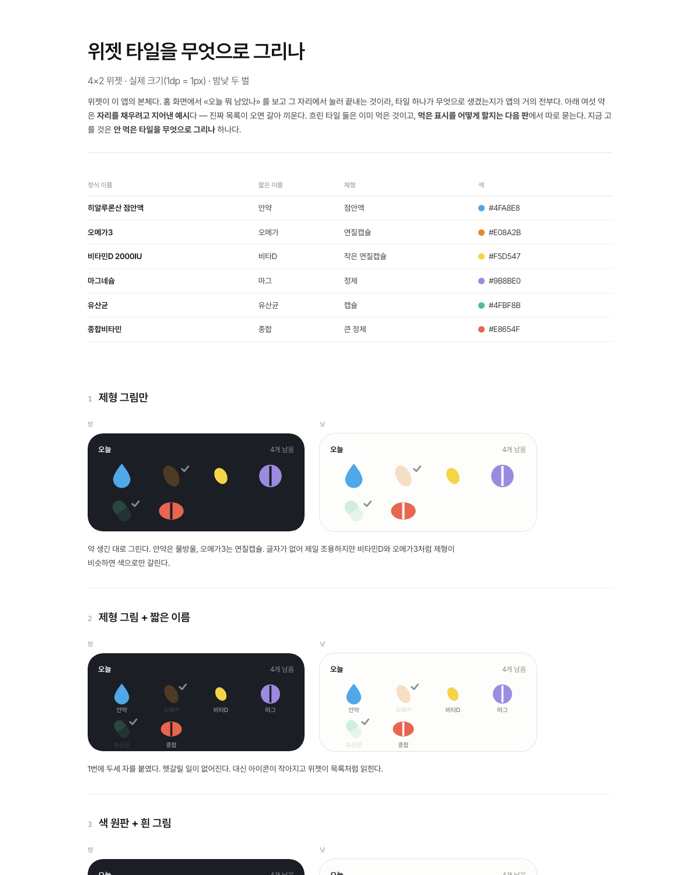
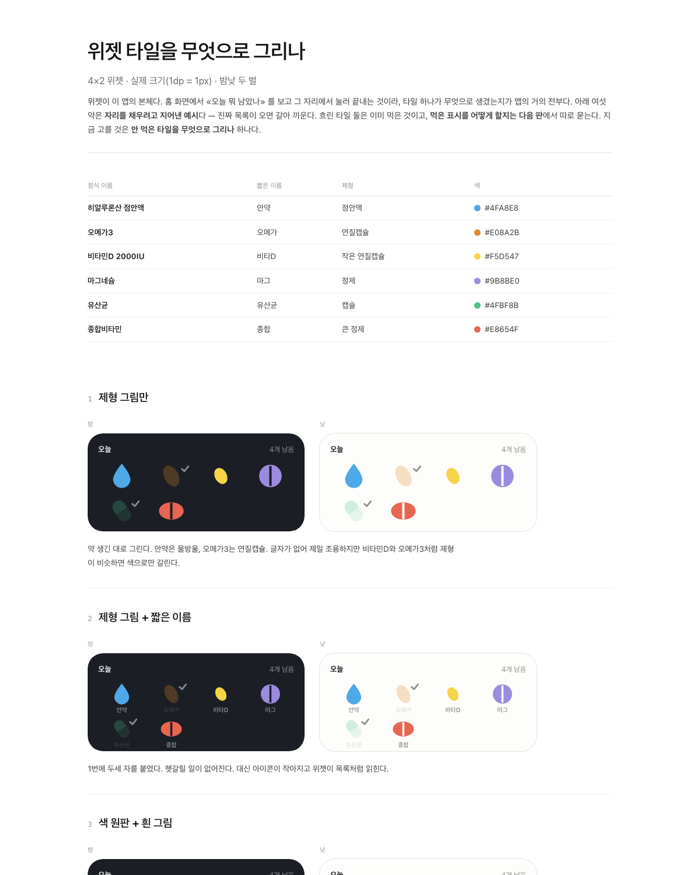
약수첩 설명서 갱신 — 상단바 없이, 꺾쇠 표시 (#5)

diff --git a/public/p/pillbox/manual.html b/public/p/pillbox/manual.html
@@ -23,178 +23,185 @@ svg.fig{display:block;width:100%;height:auto;margin:6px 0 0} svg.fig text{font-f
 .foot{color:var(--mut);font-size:13.5px;margin-top:48px}
 @media (max-width:760px){.wrap{padding:32px 16px 80px} .hero,.steps,.cap{width:100%} .cases,.steps{grid-template-columns:1fr}}
 </style></head><body><div class="wrap">
-<h1>약수첩</h1><p class="tag">먹고 바르고 넣는 약을 홈 화면에서 챙긴다</p><img class="hero" src="img/widget.png" alt=""><p class="cap">홈 화면 위젯. 윗줄이 지금 구간의 약, 아랫줄이 나머지 셋 — 다 챙겼으면 체크, 남았으면 개수. 맨 아래 인공눈물 띠는 두 번 누른다. 여기서 보고, 앱에서 누른다.</p><h2>처음 세 걸음</h2><div class="steps"><div class="step"><b>1</b><span>약을 넣는다</span><i>약 목록에서 이름 · 모양 · 색 · 언제</i></div><div class="step"><b>2</b><span>위젯을 올린다</span><i>홈 화면에 2칸짜리</i></div><div class="step"><b>3</b><span>먹고 누른다</span><i>앱에서 체크, 인공눈물은 띠에서</i></div></div><h2>이럴 때 이렇게</h2><div class="cases"><div class="case"><b>아침에 먹고</b><p>앱을 열어 아침 카드의 줄을 눌러요. 영양제 넷은 한 번에. 5시 20분이 돼도 알림은 안 와요 — 이미 했으니까.</p></div><div class="case"><b>깜빡했을 때</b><p>구간 시각에 알림이 하나. 남은 것 이름만 적혀 있고, <b>먹었어요</b> 를 누르면 그 구간이 통째로 체크돼요. 정해 둔 시간이 지나면 알림은 스스로 사라져요.</p></div><div class="case"><b>인공눈물을 넣고</b><p>위젯 띠를 두 번. 한 번은 «한 번 더 눌러서 확정», 4초 안에 한 번 더. 간격(기본 60분)이 지나면 물방울이 빨개져요.</p></div><div class="case"><b>잘못 눌렀을 때</b><p>몇 분 안엔 같은 줄을 다시 눌러요(기본 5분). 지나면 그대로 굳어요 — 잘못 눌렀을 때만 고치라고 두는 시간이에요.</p></div><div class="case"><b>늦게라도</b><p>타일은 자정까지 눌러 채울 수 있어요. 알림이 사라진 뒤에도요.</p></div><div class="case"><b>토요일 아침</b><p>일주일치 약통을 채우라는 알림. 매일 챙기는 일이 아니라 위젯엔 안 서요. <b>채웠어요</b> 를 누르면 기록에 남아요.</p></div></div><section class="moment"><h2>아침에 먹고 나서</h2><svg class="fig" viewBox="0 0 1960 1842" xmlns="http://www.w3.org/2000/svg" xmlns:xlink="http://www.w3.org/1999/xlink" role="img">
-<clipPath id="cp_main_top"><rect x="0" y="0" width="1080" height="1842" rx="36"/></clipPath>
-<image href="img/main_top.png" xlink:href="img/main_top.png" x="0" y="0" width="1080" height="1920" clip-path="url(#cp_main_top)"/>
-<rect x="2" y="2" width="1076" height="1838" rx="34" fill="none" stroke="#E4DFD5" stroke-width="4"/>
-<rect x="834" y="427" width="152" height="66" rx="14" fill="#A8834F" opacity=".16"/>
-<path d="M 988 460.0 H 1080" stroke="#A8834F" stroke-width="2" stroke-dasharray="5 7" opacity=".55"/>
-<path d="M 1080 460.0 H 1110.0 V 441.0 H 1126" fill="none" stroke="#A8834F" stroke-width="3"/>
-<circle cx="1080" cy="460.0" r="7" fill="#A8834F"/>
-<text x="1140" y="453.0" font-size="34" font-weight="700" fill="#2B2926">구간이 끝나면 «다 했어요»</text>
-<text x="1140" y="501.0" font-size="28" fill="#5A554F">구간마다 카드 하나. 이름 옆이 알림 시각이에요.</text>
-<rect x="785" y="580" width="201" height="68" rx="14" fill="#A8834F" opacity=".16"/>
-<path d="M 988 614.0 H 1080" stroke="#A8834F" stroke-width="2" stroke-dasharray="5 7" opacity=".55"/>
-<path d="M 1080 614.0 H 1110.0 V 595.0 H 1126" fill="none" stroke="#A8834F" stroke-width="3"/>
-<circle cx="1080" cy="614.0" r="7" fill="#A8834F"/>
-<text x="1140" y="607.0" font-size="34" font-weight="700" fill="#2B2926">줄을 누르면 체크</text>
-<text x="1140" y="655.0" font-size="28" fill="#5A554F">시각이 남고, 몇 분 안엔 다시 눌러 되돌려요.</text>
-<rect x="220" y="995" width="585" height="76" rx="14" fill="#A8834F" opacity=".16"/>
-<path d="M 807 1033.0 H 1080" stroke="#A8834F" stroke-width="2" stroke-dasharray="5 7" opacity=".55"/>
-<path d="M 1080 1033.0 H 1110.0 V 1014.0 H 1126" fill="none" stroke="#A8834F" stroke-width="3"/>
-<circle cx="1080" cy="1033.0" r="7" fill="#A8834F"/>
-<text x="1140" y="1026.0" font-size="34" font-weight="700" fill="#2B2926">영양제는 한 줄</text>
-<text x="1140" y="1074.0" font-size="28" fill="#5A554F">한 번에 먹으니 한 번에 체크돼요.</text>
-<rect x="846" y="1644" width="140" height="66" rx="14" fill="#A8834F" opacity=".16"/>
-<path d="M 988 1677.0 H 1080" stroke="#A8834F" stroke-width="2" stroke-dasharray="5 7" opacity=".55"/>
-<path d="M 1080 1677.0 H 1110.0 V 1658.0 H 1126" fill="none" stroke="#A8834F" stroke-width="3"/>
-<circle cx="1080" cy="1677.0" r="7" fill="#A8834F"/>
-<text x="1140" y="1670.0" font-size="34" font-weight="700" fill="#2B2926">지금 구간은 밝은 판</text>
-<text x="1140" y="1718.0" font-size="28" fill="#5A554F">남은 개수가 서요.</text>
-</svg></section><section class="moment"><h2>인공눈물과 타임라인</h2><svg class="fig" viewBox="0 0 1960 1884" xmlns="http://www.w3.org/2000/svg" xmlns:xlink="http://www.w3.org/1999/xlink" role="img">
-<clipPath id="cp_main_tail"><rect x="0" y="0" width="1080" height="1884" rx="36"/></clipPath>
-<image href="img/main_tail.png" xlink:href="img/main_tail.png" x="0" y="0" width="1080" height="1920" clip-path="url(#cp_main_tail)"/>
-<rect x="2" y="2" width="1076" height="1880" rx="34" fill="none" stroke="#E4DFD5" stroke-width="4"/>
-<rect x="89" y="665" width="902" height="142" rx="14" fill="#A8834F" opacity=".16"/>
-<path d="M 993 736.0 H 1080" stroke="#A8834F" stroke-width="2" stroke-dasharray="5 7" opacity=".55"/>
-<path d="M 1080 736.0 H 1110.0 V 717.0 H 1126" fill="none" stroke="#A8834F" stroke-width="3"/>
-<circle cx="1080" cy="736.0" r="7" fill="#A8834F"/>
-<text x="1140" y="729.0" font-size="34" font-weight="700" fill="#2B2926">넣을 때 한 번</text>
-<text x="1140" y="777.0" font-size="28" fill="#5A554F">위젯 띠를 두 번 눌러도 같아요. 위가 마지막으로 넣은 때예요.</text>
-<rect x="56" y="900" width="836" height="81" rx="14" fill="#A8834F" opacity=".16"/>
-<path d="M 894 940.5 H 1080" stroke="#A8834F" stroke-width="2" stroke-dasharray="5 7" opacity=".55"/>
-<path d="M 1080 940.5 H 1110.0 V 901.5 H 1126" fill="none" stroke="#A8834F" stroke-width="3"/>
-<circle cx="1080" cy="940.5" r="7" fill="#A8834F"/>
-<text x="1140" y="913.5" font-size="34" font-weight="700" fill="#2B2926">오늘 한 일이 시간순으로</text>
-<text x="1140" y="961.5" font-size="28" fill="#5A554F">약은 같은 분끼리 한 줄, 인공눈물은 따로. 잘못 든 줄은 꾹</text>
-<text x="1140" y="1001.5" font-size="28" fill="#5A554F">눌러 지워요.</text>
-<rect x="872" y="907" width="152" height="66" rx="14" fill="#A8834F" opacity=".16"/>
-<path d="M 1026 940.0 H 1080" stroke="#A8834F" stroke-width="2" stroke-dasharray="5 7" opacity=".55"/>
-<path d="M 1080 940.0 H 1110.0 V 1071.5 H 1126" fill="none" stroke="#A8834F" stroke-width="3"/>
-<circle cx="1080" cy="940.0" r="7" fill="#A8834F"/>
-<text x="1140" y="1083.5" font-size="34" font-weight="700" fill="#2B2926">어제부터는 여기서</text>
-<text x="1140" y="1131.5" font-size="28" fill="#5A554F">챙긴 것은 영구히 남아요.</text>
-<rect x="45" y="1610" width="492" height="142" rx="14" fill="#A8834F" opacity=".16"/>
-<path d="M 539 1681.0 H 1080" stroke="#A8834F" stroke-width="2" stroke-dasharray="5 7" opacity=".55"/>
-<path d="M 1080 1681.0 H 1110.0 V 1662.0 H 1126" fill="none" stroke="#A8834F" stroke-width="3"/>
-<circle cx="1080" cy="1681.0" r="7" fill="#A8834F"/>
-<text x="1140" y="1674.0" font-size="34" font-weight="700" fill="#2B2926">약을 넣고 빼는 곳</text>
-<text x="1140" y="1722.0" font-size="28" fill="#5A554F">«설정» 은 언제 알릴지예요.</text>
-</svg></section><section class="moment"><h2>지난 기록</h2><svg class="fig" viewBox="0 0 1960 1920" xmlns="http://www.w3.org/2000/svg" xmlns:xlink="http://www.w3.org/1999/xlink" role="img">
-<clipPath id="cp_history"><rect x="0" y="0" width="1080" height="1920" rx="36"/></clipPath>
-<image href="img/history.png" xlink:href="img/history.png" x="0" y="0" width="1080" height="1920" clip-path="url(#cp_history)"/>
-<rect x="2" y="2" width="1076" height="1916" rx="34" fill="none" stroke="#E4DFD5" stroke-width="4"/>
-<rect x="45" y="255" width="990" height="66" rx="14" fill="#A8834F" opacity=".16"/>
-<path d="M 1037 288.0 H 1080" stroke="#A8834F" stroke-width="2" stroke-dasharray="5 7" opacity=".55"/>
-<path d="M 1080 288.0 H 1110.0 V 269.0 H 1126" fill="none" stroke="#A8834F" stroke-width="3"/>
-<circle cx="1080" cy="288.0" r="7" fill="#A8834F"/>
-<text x="1140" y="281.0" font-size="34" font-weight="700" fill="#2B2926">얼마나 쌓였나</text>
-<text x="1140" y="329.0" font-size="28" fill="#5A554F">자정에 지워지는 건 «오늘 다 했나» 뿐이에요.</text>
-<rect x="917" y="417" width="80" height="65" rx="14" fill="#A8834F" opacity=".16"/>
-<path d="M 999 449.5 H 1080" stroke="#A8834F" stroke-width="2" stroke-dasharray="5 7" opacity=".55"/>
-<path d="M 1080 449.5 H 1110.0 V 430.5 H 1126" fill="none" stroke="#A8834F" stroke-width="3"/>
-<circle cx="1080" cy="449.5" r="7" fill="#A8834F"/>
-<text x="1140" y="442.5" font-size="34" font-weight="700" fill="#2B2926">날짜마다 접고 펴요</text>
-<text x="1140" y="490.5" font-size="28" fill="#5A554F">머리줄에 그날 약 몇 번 · 인공눈물 몇 번.</text>
-<rect x="83" y="1820" width="824" height="61" rx="14" fill="#A8834F" opacity=".16"/>
-<path d="M 909 1850.5 H 1080" stroke="#A8834F" stroke-width="2" stroke-dasharray="5 7" opacity=".55"/>
-<path d="M 1080 1850.5 H 1110.0 V 1831.5 H 1126" fill="none" stroke="#A8834F" stroke-width="3"/>
-<circle cx="1080" cy="1850.5" r="7" fill="#A8834F"/>
-<text x="1140" y="1843.5" font-size="34" font-weight="700" fill="#2B2926">약통 채운 것도</text>
-<text x="1140" y="1891.5" font-size="28" fill="#5A554F">알림에서 «채웠어요» 를 누르면 남아요.</text>
-</svg></section><section class="moment"><h2>언제 알릴지</h2><svg class="fig" viewBox="0 0 1960 1669" xmlns="http://www.w3.org/2000/svg" xmlns:xlink="http://www.w3.org/1999/xlink" role="img">
-<clipPath id="cp_settings_top"><rect x="0" y="0" width="1080" height="1669" rx="36"/></clipPath>
-<image href="img/settings_top.png" xlink:href="img/settings_top.png" x="0" y="0" width="1080" height="1920" clip-path="url(#cp_settings_top)"/>
-<rect x="2" y="2" width="1076" height="1665" rx="34" fill="none" stroke="#E4DFD5" stroke-width="4"/>
-<rect x="56" y="541" width="848" height="76" rx="14" fill="#A8834F" opacity=".16"/>
-<path d="M 906 579.0 H 1080" stroke="#A8834F" stroke-width="2" stroke-dasharray="5 7" opacity=".55"/>
-<path d="M 1080 579.0 H 1110.0 V 560.0 H 1126" fill="none" stroke="#A8834F" stroke-width="3"/>
-<circle cx="1080" cy="579.0" r="7" fill="#A8834F"/>
-<text x="1140" y="572.0" font-size="34" font-weight="700" fill="#2B2926">끄면 위젯만</text>
-<text x="1140" y="620.0" font-size="28" fill="#5A554F">알림 없이 위젯으로만 써요.</text>
-<rect x="45" y="743" width="990" height="88" rx="14" fill="#A8834F" opacity=".16"/>
-<path d="M 1037 787.0 H 1080" stroke="#A8834F" stroke-width="2" stroke-dasharray="5 7" opacity=".55"/>
-<path d="M 1080 787.0 H 1110.0 V 768.0 H 1126" fill="none" stroke="#A8834F" stroke-width="3"/>
-<circle cx="1080" cy="787.0" r="7" fill="#A8834F"/>
-<text x="1140" y="780.0" font-size="34" font-weight="700" fill="#2B2926">이 시각에 안 챙긴 게 있으면</text>
-<text x="1140" y="828.0" font-size="28" fill="#5A554F">알림이 와요. 미리 했으면 안 와요.</text>
-<rect x="911" y="938" width="113" height="66" rx="14" fill="#A8834F" opacity=".16"/>
-<path d="M 1026 971.0 H 1080" stroke="#A8834F" stroke-width="2" stroke-dasharray="5 7" opacity=".55"/>
-<path d="M 1080 971.0 H 1110.0 V 952.0 H 1126" fill="none" stroke="#A8834F" stroke-width="3"/>
-<circle cx="1080" cy="971.0" r="7" fill="#A8834F"/>
-<text x="1140" y="964.0" font-size="34" font-weight="700" fill="#2B2926">시각만 고쳐요</text>
-<text x="1140" y="1012.0" font-size="28" fill="#5A554F">구간 이름은 못 바꿔요.</text>
-<rect x="45" y="1449" width="990" height="88" rx="14" fill="#A8834F" opacity=".16"/>
-<path d="M 1037 1493.0 H 1080" stroke="#A8834F" stroke-width="2" stroke-dasharray="5 7" opacity=".55"/>
-<path d="M 1080 1493.0 H 1110.0 V 1474.0 H 1126" fill="none" stroke="#A8834F" stroke-width="3"/>
-<circle cx="1080" cy="1493.0" r="7" fill="#A8834F"/>
-<text x="1140" y="1486.0" font-size="34" font-weight="700" fill="#2B2926">알림이 사라지기까지</text>
-<text x="1140" y="1534.0" font-size="28" fill="#5A554F">그 구간이 지나면 소용없어서요.</text>
-</svg></section><section class="moment"><h2>인공눈물과 되돌리기</h2><svg class="fig" viewBox="0 0 1960 1054" xmlns="http://www.w3.org/2000/svg" xmlns:xlink="http://www.w3.org/1999/xlink" role="img">
-<clipPath id="cp_settings_bottom"><rect x="0" y="0" width="1080" height="1054" rx="36"/></clipPath>
-<image href="img/settings_bottom.png" xlink:href="img/settings_bottom.png" x="0" y="0" width="1080" height="1920" clip-path="url(#cp_settings_bottom)"/>
-<rect x="2" y="2" width="1076" height="1050" rx="34" fill="none" stroke="#E4DFD5" stroke-width="4"/>
-<rect x="45" y="198" width="990" height="114" rx="14" fill="#A8834F" opacity=".16"/>
-<path d="M 1037 255.0 H 1080" stroke="#A8834F" stroke-width="2" stroke-dasharray="5 7" opacity=".55"/>
-<path d="M 1080 255.0 H 1110.0 V 236.0 H 1126" fill="none" stroke="#A8834F" stroke-width="3"/>
-<circle cx="1080" cy="255.0" r="7" fill="#A8834F"/>
-<text x="1140" y="248.0" font-size="34" font-weight="700" fill="#2B2926">인공눈물 간격</text>
-<text x="1140" y="296.0" font-size="28" fill="#5A554F">지나면 위젯 물방울이 빨개져요. 기본 60분.</text>
-<rect x="56" y="632" width="848" height="76" rx="14" fill="#A8834F" opacity=".16"/>
-<path d="M 906 670.0 H 1080" stroke="#A8834F" stroke-width="2" stroke-dasharray="5 7" opacity=".55"/>
-<path d="M 1080 670.0 H 1110.0 V 651.0 H 1126" fill="none" stroke="#A8834F" stroke-width="3"/>
-<circle cx="1080" cy="670.0" r="7" fill="#A8834F"/>
-<text x="1140" y="663.0" font-size="34" font-weight="700" fill="#2B2926">인공눈물도 알릴지</text>
-<text x="1140" y="711.0" font-size="28" fill="#5A554F">기본은 끔.</text>
-<rect x="45" y="834" width="990" height="88" rx="14" fill="#A8834F" opacity=".16"/>
-<path d="M 1037 878.0 H 1080" stroke="#A8834F" stroke-width="2" stroke-dasharray="5 7" opacity=".55"/>
-<path d="M 1080 878.0 H 1110.0 V 859.0 H 1126" fill="none" stroke="#A8834F" stroke-width="3"/>
-<circle cx="1080" cy="878.0" r="7" fill="#A8834F"/>
-<text x="1140" y="871.0" font-size="34" font-weight="700" fill="#2B2926">되돌리기 유예</text>
-<text x="1140" y="919.0" font-size="28" fill="#5A554F">지나면 체크가 그대로 굳어요.</text>
-</svg></section><section class="moment"><h2>약 목록</h2><svg class="fig" viewBox="0 0 1960 1920" xmlns="http://www.w3.org/2000/svg" xmlns:xlink="http://www.w3.org/1999/xlink" role="img">
-<clipPath id="cp_meds"><rect x="0" y="0" width="1080" height="1920" rx="36"/></clipPath>
-<image href="img/meds.png" xlink:href="img/meds.png" x="0" y="0" width="1080" height="1920" clip-path="url(#cp_meds)"/>
-<rect x="2" y="2" width="1076" height="1916" rx="34" fill="none" stroke="#E4DFD5" stroke-width="4"/>
-<rect x="56" y="293" width="968" height="65" rx="14" fill="#A8834F" opacity=".16"/>
-<path d="M 1026 325.5 H 1080" stroke="#A8834F" stroke-width="2" stroke-dasharray="5 7" opacity=".55"/>
-<path d="M 1080 325.5 H 1110.0 V 306.5 H 1126" fill="none" stroke="#A8834F" stroke-width="3"/>
-<circle cx="1080" cy="325.5" r="7" fill="#A8834F"/>
-<text x="1140" y="318.5" font-size="34" font-weight="700" fill="#2B2926">순서가 곧 위젯</text>
-<text x="1140" y="366.5" font-size="28" fill="#5A554F">위아래 화살표로 옮겨요.</text>
-<rect x="182" y="1091" width="551" height="61" rx="14" fill="#A8834F" opacity=".16"/>
-<path d="M 735 1121.5 H 1080" stroke="#A8834F" stroke-width="2" stroke-dasharray="5 7" opacity=".55"/>
-<path d="M 1080 1121.5 H 1110.0 V 1102.5 H 1126" fill="none" stroke="#A8834F" stroke-width="3"/>
-<circle cx="1080" cy="1121.5" r="7" fill="#A8834F"/>
-<text x="1140" y="1114.5" font-size="34" font-weight="700" fill="#2B2926">영양제 표시</text>
-<text x="1140" y="1162.5" font-size="28" fill="#5A554F">같은 구간의 영양제와 위젯에서 한 타일로 뭉쳐요.</text>
-<rect x="45" y="1684" width="990" height="142" rx="14" fill="#A8834F" opacity=".16"/>
-<path d="M 1037 1755.0 H 1080" stroke="#A8834F" stroke-width="2" stroke-dasharray="5 7" opacity=".55"/>
-<path d="M 1080 1755.0 H 1110.0 V 1736.0 H 1126" fill="none" stroke="#A8834F" stroke-width="3"/>
-<circle cx="1080" cy="1755.0" r="7" fill="#A8834F"/>
-<text x="1140" y="1748.0" font-size="34" font-weight="700" fill="#2B2926">새 약</text>
-<text x="1140" y="1796.0" font-size="28" fill="#5A554F">이름 · 짧은 이름 · 모양 · 색 · 언제 먹나.</text>
-</svg></section><section class="moment"><h2>약 하나 고치기</h2><svg class="fig" viewBox="0 0 1960 1278" xmlns="http://www.w3.org/2000/svg" xmlns:xlink="http://www.w3.org/1999/xlink" role="img">
-<clipPath id="cp_edit"><rect x="0" y="0" width="1080" height="1278" rx="36"/></clipPath>
-<image href="img/edit.png" xlink:href="img/edit.png" x="0" y="0" width="1080" height="1920" clip-path="url(#cp_edit)"/>
-<rect x="2" y="2" width="1076" height="1274" rx="34" fill="none" stroke="#E4DFD5" stroke-width="4"/>
-<rect x="259" y="349" width="776" height="66" rx="14" fill="#A8834F" opacity=".16"/>
-<path d="M 1037 382.0 H 1080" stroke="#A8834F" stroke-width="2" stroke-dasharray="5 7" opacity=".55"/>
-<path d="M 1080 382.0 H 1110.0 V 363.0 H 1126" fill="none" stroke="#A8834F" stroke-width="3"/>
-<circle cx="1080" cy="382.0" r="7" fill="#A8834F"/>
-<text x="1140" y="375.0" font-size="34" font-weight="700" fill="#2B2926">위젯 타일 미리보기</text>
-<text x="1140" y="423.0" font-size="28" fill="#5A554F">모양과 색을 바꾸면 바로 따라와요.</text>
-<rect x="45" y="820" width="990" height="66" rx="14" fill="#A8834F" opacity=".16"/>
-<path d="M 1037 853.0 H 1080" stroke="#A8834F" stroke-width="2" stroke-dasharray="5 7" opacity=".55"/>
-<path d="M 1080 853.0 H 1110.0 V 834.0 H 1126" fill="none" stroke="#A8834F" stroke-width="3"/>
-<circle cx="1080" cy="853.0" r="7" fill="#A8834F"/>
-<text x="1140" y="846.0" font-size="34" font-weight="700" fill="#2B2926">짧은 이름</text>
-<text x="1140" y="894.0" font-size="28" fill="#5A554F">일곱 글자까지는 자동으로 줄어 다 들어가요.</text>
-<rect x="45" y="1080" width="990" height="66" rx="14" fill="#A8834F" opacity=".16"/>
-<path d="M 1037 1113.0 H 1080" stroke="#A8834F" stroke-width="2" stroke-dasharray="5 7" opacity=".55"/>
-<path d="M 1080 1113.0 H 1110.0 V 1094.0 H 1126" fill="none" stroke="#A8834F" stroke-width="3"/>
-<circle cx="1080" cy="1113.0" r="7" fill="#A8834F"/>
-<text x="1140" y="1106.0" font-size="34" font-weight="700" fill="#2B2926">모양과 색을 골라</text>
-<text x="1140" y="1154.0" font-size="28" fill="#5A554F">아이콘은 그리지 않아요. «하양» 은 낮 위젯에서 연회색으로.</text>
+<h1>약수첩</h1><p class="tag">먹고 바르고 넣는 약을 홈 화면에서 챙긴다</p><img class="hero" src="img/widget.png" alt=""><p class="cap">홈 화면 위젯. 윗줄이 지금 구간의 약, 아랫줄이 나머지 셋 — 다 챙겼으면 체크, 남았으면 개수. 맨 아래 인공눈물 띠는 두 번 누른다. 여기서 보고, 앱에서 누른다.</p><h2>처음 세 걸음</h2><div class="steps"><div class="step"><b>1</b><span>약을 넣는다</span><i>약 목록에서 이름 · 모양 · 색 · 언제</i></div><div class="step"><b>2</b><span>위젯을 올린다</span><i>홈 화면에 2칸짜리</i></div><div class="step"><b>3</b><span>먹고 누른다</span><i>앱에서 체크, 인공눈물은 띠에서</i></div></div><h2>이럴 때 이렇게</h2><div class="cases"><div class="case"><b>아침에 먹고</b><p>앱을 열어 아침 카드의 줄을 눌러요. 영양제 넷은 한 번에. 5시 20분이 돼도 알림은 안 와요 — 이미 했으니까.</p></div><div class="case"><b>깜빡했을 때</b><p>구간 시각에 알림이 하나. 남은 것 이름만 적혀 있고, <b>먹었어요</b> 를 누르면 그 구간이 통째로 체크돼요. 정해 둔 시간이 지나면 알림은 스스로 사라져요.</p></div><div class="case"><b>인공눈물을 넣고</b><p>위젯 띠를 두 번. 한 번은 «한 번 더 눌러서 확정», 4초 안에 한 번 더. 간격(기본 60분)이 지나면 물방울이 빨개져요.</p></div><div class="case"><b>잘못 눌렀을 때</b><p>몇 분 안엔 같은 줄을 다시 눌러요(기본 5분). 지나면 그대로 굳어요 — 잘못 눌렀을 때만 고치라고 두는 시간이에요.</p></div><div class="case"><b>늦게라도</b><p>타일은 자정까지 눌러 채울 수 있어요. 알림이 사라진 뒤에도요.</p></div><div class="case"><b>토요일 아침</b><p>일주일치 약통을 채우라는 알림. 매일 챙기는 일이 아니라 위젯엔 안 서요. <b>채웠어요</b> 를 누르면 기록에 남아요.</p></div></div><section class="moment"><h2>아침에 먹고 나서</h2><svg class="fig" viewBox="0 0 1960 1816" xmlns="http://www.w3.org/2000/svg" xmlns:xlink="http://www.w3.org/1999/xlink" role="img">
+<clipPath id="cp_main_top"><rect x="0" y="0" width="1080" height="1816" rx="36"/></clipPath>
+<rect x="0" y="0" width="1080" height="1816" rx="36" fill="#FDFDFB"/><image href="img/main_top.png" xlink:href="img/main_top.png" x="0" y="-26" width="1080" height="1920" clip-path="url(#cp_main_top)"/>
+<rect x="0" y="0" width="1080" height="40" fill="#FDFDFB" clip-path="url(#cp_main_top)"/>
+<rect x="2" y="2" width="1076" height="1812" rx="34" fill="none" stroke="#E4DFD5" stroke-width="4"/>
+<path d="M 830 417 V 397 H 850 M 970 397 H 990 V 417 M 830 451 V 471 H 850 M 970 471 H 990 V 451" fill="none" stroke="#A8834F" stroke-width="4" stroke-linecap="round"/>
+<path d="M 994 434.0 H 1080" stroke="#A8834F" stroke-width="2" stroke-dasharray="5 7" opacity=".55"/>
+<path d="M 1080 434.0 H 1110.0 V 415.0 H 1126" fill="none" stroke="#A8834F" stroke-width="3"/>
+<circle cx="1080" cy="434.0" r="7" fill="#A8834F"/>
+<text x="1140" y="427.0" font-size="34" font-weight="700" fill="#2B2926">구간이 끝나면 «다 했어요»</text>
+<text x="1140" y="475.0" font-size="28" fill="#5A554F">구간마다 카드 하나. 이름 옆이 알림 시각이에요.</text>
+<path d="M 781 570 V 550 H 801 M 970 550 H 990 V 570 M 781 606 V 626 H 801 M 970 626 H 990 V 606" fill="none" stroke="#A8834F" stroke-width="4" stroke-linecap="round"/>
+<path d="M 994 588.0 H 1080" stroke="#A8834F" stroke-width="2" stroke-dasharray="5 7" opacity=".55"/>
+<path d="M 1080 588.0 H 1110.0 V 569.0 H 1126" fill="none" stroke="#A8834F" stroke-width="3"/>
+<circle cx="1080" cy="588.0" r="7" fill="#A8834F"/>
+<text x="1140" y="581.0" font-size="34" font-weight="700" fill="#2B2926">줄을 누르면 체크</text>
+<text x="1140" y="629.0" font-size="28" fill="#5A554F">시각이 남고, 몇 분 안엔 다시 눌러 되돌려요.</text>
+<path d="M 216 985 V 965 H 236 M 789 965 H 809 V 985 M 216 1029 V 1049 H 236 M 789 1049 H 809 V 1029" fill="none" stroke="#A8834F" stroke-width="4" stroke-linecap="round"/>
+<path d="M 813 1007.0 H 1080" stroke="#A8834F" stroke-width="2" stroke-dasharray="5 7" opacity=".55"/>
+<path d="M 1080 1007.0 H 1110.0 V 988.0 H 1126" fill="none" stroke="#A8834F" stroke-width="3"/>
+<circle cx="1080" cy="1007.0" r="7" fill="#A8834F"/>
+<text x="1140" y="1000.0" font-size="34" font-weight="700" fill="#2B2926">영양제는 한 줄</text>
+<text x="1140" y="1048.0" font-size="28" fill="#5A554F">한 번에 먹으니 한 번에 체크돼요.</text>
+<path d="M 842 1634 V 1614 H 862 M 970 1614 H 990 V 1634 M 842 1668 V 1688 H 862 M 970 1688 H 990 V 1668" fill="none" stroke="#A8834F" stroke-width="4" stroke-linecap="round"/>
+<path d="M 994 1651.0 H 1080" stroke="#A8834F" stroke-width="2" stroke-dasharray="5 7" opacity=".55"/>
+<path d="M 1080 1651.0 H 1110.0 V 1632.0 H 1126" fill="none" stroke="#A8834F" stroke-width="3"/>
+<circle cx="1080" cy="1651.0" r="7" fill="#A8834F"/>
+<text x="1140" y="1644.0" font-size="34" font-weight="700" fill="#2B2926">지금 구간은 밝은 판</text>
+<text x="1140" y="1692.0" font-size="28" fill="#5A554F">남은 개수가 서요.</text>
+</svg></section><section class="moment"><h2>인공눈물과 타임라인</h2><svg class="fig" viewBox="0 0 1960 1858" xmlns="http://www.w3.org/2000/svg" xmlns:xlink="http://www.w3.org/1999/xlink" role="img">
+<clipPath id="cp_main_tail"><rect x="0" y="0" width="1080" height="1858" rx="36"/></clipPath>
+<rect x="0" y="0" width="1080" height="1858" rx="36" fill="#FDFDFB"/><image href="img/main_tail.png" xlink:href="img/main_tail.png" x="0" y="-26" width="1080" height="1920" clip-path="url(#cp_main_tail)"/>
+<rect x="0" y="0" width="1080" height="40" fill="#FDFDFB" clip-path="url(#cp_main_tail)"/>
+<rect x="2" y="2" width="1076" height="1854" rx="34" fill="none" stroke="#E4DFD5" stroke-width="4"/>
+<path d="M 85 655 V 635 H 105 M 975 635 H 995 V 655 M 85 765 V 785 H 105 M 975 785 H 995 V 765" fill="none" stroke="#A8834F" stroke-width="4" stroke-linecap="round"/>
+<path d="M 999 710.0 H 1080" stroke="#A8834F" stroke-width="2" stroke-dasharray="5 7" opacity=".55"/>
+<path d="M 1080 710.0 H 1110.0 V 691.0 H 1126" fill="none" stroke="#A8834F" stroke-width="3"/>
+<circle cx="1080" cy="710.0" r="7" fill="#A8834F"/>
+<text x="1140" y="703.0" font-size="34" font-weight="700" fill="#2B2926">넣을 때 한 번</text>
+<text x="1140" y="751.0" font-size="28" fill="#5A554F">위젯 띠를 두 번 눌러도 같아요. 위가 마지막으로 넣은 때예요.</text>
+<path d="M 52 890 V 870 H 72 M 876 870 H 896 V 890 M 52 939 V 959 H 72 M 876 959 H 896 V 939" fill="none" stroke="#A8834F" stroke-width="4" stroke-linecap="round"/>
+<path d="M 900 914.5 H 1080" stroke="#A8834F" stroke-width="2" stroke-dasharray="5 7" opacity=".55"/>
+<path d="M 1080 914.5 H 1110.0 V 875.5 H 1126" fill="none" stroke="#A8834F" stroke-width="3"/>
+<circle cx="1080" cy="914.5" r="7" fill="#A8834F"/>
+<text x="1140" y="887.5" font-size="34" font-weight="700" fill="#2B2926">오늘 한 일이 시간순으로</text>
+<text x="1140" y="935.5" font-size="28" fill="#5A554F">약은 같은 분끼리 한 줄, 인공눈물은 따로. 잘못 든 줄은 꾹</text>
+<text x="1140" y="975.5" font-size="28" fill="#5A554F">눌러 지워요.</text>
+<path d="M 868 897 V 877 H 888 M 1008 877 H 1028 V 897 M 868 931 V 951 H 888 M 1008 951 H 1028 V 931" fill="none" stroke="#A8834F" stroke-width="4" stroke-linecap="round"/>
+<path d="M 1032 914.0 H 1080" stroke="#A8834F" stroke-width="2" stroke-dasharray="5 7" opacity=".55"/>
+<path d="M 1080 914.0 H 1110.0 V 1045.5 H 1126" fill="none" stroke="#A8834F" stroke-width="3"/>
+<circle cx="1080" cy="914.0" r="7" fill="#A8834F"/>
+<text x="1140" y="1057.5" font-size="34" font-weight="700" fill="#2B2926">어제부터는 여기서</text>
+<text x="1140" y="1105.5" font-size="28" fill="#5A554F">챙긴 것은 영구히 남아요.</text>
+<path d="M 41 1600 V 1580 H 61 M 521 1580 H 541 V 1600 M 41 1710 V 1730 H 61 M 521 1730 H 541 V 1710" fill="none" stroke="#A8834F" stroke-width="4" stroke-linecap="round"/>
+<path d="M 545 1655.0 H 1080" stroke="#A8834F" stroke-width="2" stroke-dasharray="5 7" opacity=".55"/>
+<path d="M 1080 1655.0 H 1110.0 V 1636.0 H 1126" fill="none" stroke="#A8834F" stroke-width="3"/>
+<circle cx="1080" cy="1655.0" r="7" fill="#A8834F"/>
+<text x="1140" y="1648.0" font-size="34" font-weight="700" fill="#2B2926">약을 넣고 빼는 곳</text>
+<text x="1140" y="1696.0" font-size="28" fill="#5A554F">«설정» 은 언제 알릴지예요.</text>
+</svg></section><section class="moment"><h2>지난 기록</h2><svg class="fig" viewBox="0 0 1960 1894" xmlns="http://www.w3.org/2000/svg" xmlns:xlink="http://www.w3.org/1999/xlink" role="img">
+<clipPath id="cp_history"><rect x="0" y="0" width="1080" height="1894" rx="36"/></clipPath>
+<rect x="0" y="0" width="1080" height="1894" rx="36" fill="#FDFDFB"/><image href="img/history.png" xlink:href="img/history.png" x="0" y="-26" width="1080" height="1920" clip-path="url(#cp_history)"/>
+<rect x="0" y="0" width="1080" height="40" fill="#FDFDFB" clip-path="url(#cp_history)"/>
+<rect x="2" y="2" width="1076" height="1890" rx="34" fill="none" stroke="#E4DFD5" stroke-width="4"/>
+<path d="M 41 245 V 225 H 61 M 1019 225 H 1039 V 245 M 41 279 V 299 H 61 M 1019 299 H 1039 V 279" fill="none" stroke="#A8834F" stroke-width="4" stroke-linecap="round"/>
+<path d="M 1043 262.0 H 1080" stroke="#A8834F" stroke-width="2" stroke-dasharray="5 7" opacity=".55"/>
+<path d="M 1080 262.0 H 1110.0 V 243.0 H 1126" fill="none" stroke="#A8834F" stroke-width="3"/>
+<circle cx="1080" cy="262.0" r="7" fill="#A8834F"/>
+<text x="1140" y="255.0" font-size="34" font-weight="700" fill="#2B2926">얼마나 쌓였나</text>
+<text x="1140" y="303.0" font-size="28" fill="#5A554F">자정에 지워지는 건 «오늘 다 했나» 뿐이에요.</text>
+<path d="M 913 407 V 387 H 933 M 981 387 H 1001 V 407 M 913 440 V 460 H 933 M 981 460 H 1001 V 440" fill="none" stroke="#A8834F" stroke-width="4" stroke-linecap="round"/>
+<path d="M 1005 423.5 H 1080" stroke="#A8834F" stroke-width="2" stroke-dasharray="5 7" opacity=".55"/>
+<path d="M 1080 423.5 H 1110.0 V 404.5 H 1126" fill="none" stroke="#A8834F" stroke-width="3"/>
+<circle cx="1080" cy="423.5" r="7" fill="#A8834F"/>
+<text x="1140" y="416.5" font-size="34" font-weight="700" fill="#2B2926">날짜마다 접고 펴요</text>
+<text x="1140" y="464.5" font-size="28" fill="#5A554F">머리줄에 그날 약 몇 번 · 인공눈물 몇 번.</text>
+<path d="M 79 1810 V 1790 H 99 M 891 1790 H 911 V 1810 M 79 1839 V 1859 H 99 M 891 1859 H 911 V 1839" fill="none" stroke="#A8834F" stroke-width="4" stroke-linecap="round"/>
+<path d="M 915 1824.5 H 1080" stroke="#A8834F" stroke-width="2" stroke-dasharray="5 7" opacity=".55"/>
+<path d="M 1080 1824.5 H 1110.0 V 1805.5 H 1126" fill="none" stroke="#A8834F" stroke-width="3"/>
+<circle cx="1080" cy="1824.5" r="7" fill="#A8834F"/>
+<text x="1140" y="1817.5" font-size="34" font-weight="700" fill="#2B2926">약통 채운 것도</text>
+<text x="1140" y="1865.5" font-size="28" fill="#5A554F">알림에서 «채웠어요» 를 누르면 남아요.</text>
+</svg></section><section class="moment"><h2>언제 알릴지</h2><svg class="fig" viewBox="0 0 1960 1643" xmlns="http://www.w3.org/2000/svg" xmlns:xlink="http://www.w3.org/1999/xlink" role="img">
+<clipPath id="cp_settings_top"><rect x="0" y="0" width="1080" height="1643" rx="36"/></clipPath>
+<rect x="0" y="0" width="1080" height="1643" rx="36" fill="#FDFDFB"/><image href="img/settings_top.png" xlink:href="img/settings_top.png" x="0" y="-26" width="1080" height="1920" clip-path="url(#cp_settings_top)"/>
+<rect x="0" y="0" width="1080" height="40" fill="#FDFDFB" clip-path="url(#cp_settings_top)"/>
+<rect x="2" y="2" width="1076" height="1639" rx="34" fill="none" stroke="#E4DFD5" stroke-width="4"/>
+<path d="M 52 531 V 511 H 72 M 888 511 H 908 V 531 M 52 575 V 595 H 72 M 888 595 H 908 V 575" fill="none" stroke="#A8834F" stroke-width="4" stroke-linecap="round"/>
+<path d="M 912 553.0 H 1080" stroke="#A8834F" stroke-width="2" stroke-dasharray="5 7" opacity=".55"/>
+<path d="M 1080 553.0 H 1110.0 V 534.0 H 1126" fill="none" stroke="#A8834F" stroke-width="3"/>
+<circle cx="1080" cy="553.0" r="7" fill="#A8834F"/>
+<text x="1140" y="546.0" font-size="34" font-weight="700" fill="#2B2926">끄면 위젯만</text>
+<text x="1140" y="594.0" font-size="28" fill="#5A554F">알림 없이 위젯으로만 써요.</text>
+<path d="M 41 733 V 713 H 61 M 1019 713 H 1039 V 733 M 41 789 V 809 H 61 M 1019 809 H 1039 V 789" fill="none" stroke="#A8834F" stroke-width="4" stroke-linecap="round"/>
+<path d="M 1043 761.0 H 1080" stroke="#A8834F" stroke-width="2" stroke-dasharray="5 7" opacity=".55"/>
+<path d="M 1080 761.0 H 1110.0 V 742.0 H 1126" fill="none" stroke="#A8834F" stroke-width="3"/>
+<circle cx="1080" cy="761.0" r="7" fill="#A8834F"/>
+<text x="1140" y="754.0" font-size="34" font-weight="700" fill="#2B2926">이 시각에 안 챙긴 게 있으면</text>
+<text x="1140" y="802.0" font-size="28" fill="#5A554F">알림이 와요. 미리 했으면 안 와요.</text>
+<path d="M 907 928 V 908 H 927 M 1008 908 H 1028 V 928 M 907 962 V 982 H 927 M 1008 982 H 1028 V 962" fill="none" stroke="#A8834F" stroke-width="4" stroke-linecap="round"/>
+<path d="M 1032 945.0 H 1080" stroke="#A8834F" stroke-width="2" stroke-dasharray="5 7" opacity=".55"/>
+<path d="M 1080 945.0 H 1110.0 V 926.0 H 1126" fill="none" stroke="#A8834F" stroke-width="3"/>
+<circle cx="1080" cy="945.0" r="7" fill="#A8834F"/>
+<text x="1140" y="938.0" font-size="34" font-weight="700" fill="#2B2926">시각만 고쳐요</text>
+<text x="1140" y="986.0" font-size="28" fill="#5A554F">구간 이름은 못 바꿔요.</text>
+<path d="M 41 1439 V 1419 H 61 M 1019 1419 H 1039 V 1439 M 41 1495 V 1515 H 61 M 1019 1515 H 1039 V 1495" fill="none" stroke="#A8834F" stroke-width="4" stroke-linecap="round"/>
+<path d="M 1043 1467.0 H 1080" stroke="#A8834F" stroke-width="2" stroke-dasharray="5 7" opacity=".55"/>
+<path d="M 1080 1467.0 H 1110.0 V 1448.0 H 1126" fill="none" stroke="#A8834F" stroke-width="3"/>
+<circle cx="1080" cy="1467.0" r="7" fill="#A8834F"/>
+<text x="1140" y="1460.0" font-size="34" font-weight="700" fill="#2B2926">알림이 사라지기까지</text>
+<text x="1140" y="1508.0" font-size="28" fill="#5A554F">그 구간이 지나면 소용없어서요.</text>
+</svg></section><section class="moment"><h2>인공눈물과 되돌리기</h2><svg class="fig" viewBox="0 0 1960 1028" xmlns="http://www.w3.org/2000/svg" xmlns:xlink="http://www.w3.org/1999/xlink" role="img">
+<clipPath id="cp_settings_bottom"><rect x="0" y="0" width="1080" height="1028" rx="36"/></clipPath>
+<rect x="0" y="0" width="1080" height="1028" rx="36" fill="#FDFDFB"/><image href="img/settings_bottom.png" xlink:href="img/settings_bottom.png" x="0" y="-26" width="1080" height="1920" clip-path="url(#cp_settings_bottom)"/>
+<rect x="0" y="0" width="1080" height="40" fill="#FDFDFB" clip-path="url(#cp_settings_bottom)"/>
+<rect x="2" y="2" width="1076" height="1024" rx="34" fill="none" stroke="#E4DFD5" stroke-width="4"/>
+<path d="M 41 188 V 168 H 61 M 1019 168 H 1039 V 188 M 41 270 V 290 H 61 M 1019 290 H 1039 V 270" fill="none" stroke="#A8834F" stroke-width="4" stroke-linecap="round"/>
+<path d="M 1043 229.0 H 1080" stroke="#A8834F" stroke-width="2" stroke-dasharray="5 7" opacity=".55"/>
+<path d="M 1080 229.0 H 1110.0 V 210.0 H 1126" fill="none" stroke="#A8834F" stroke-width="3"/>
+<circle cx="1080" cy="229.0" r="7" fill="#A8834F"/>
+<text x="1140" y="222.0" font-size="34" font-weight="700" fill="#2B2926">인공눈물 간격</text>
+<text x="1140" y="270.0" font-size="28" fill="#5A554F">지나면 위젯 물방울이 빨개져요. 기본 60분.</text>
+<path d="M 52 622 V 602 H 72 M 888 602 H 908 V 622 M 52 666 V 686 H 72 M 888 686 H 908 V 666" fill="none" stroke="#A8834F" stroke-width="4" stroke-linecap="round"/>
+<path d="M 912 644.0 H 1080" stroke="#A8834F" stroke-width="2" stroke-dasharray="5 7" opacity=".55"/>
+<path d="M 1080 644.0 H 1110.0 V 625.0 H 1126" fill="none" stroke="#A8834F" stroke-width="3"/>
+<circle cx="1080" cy="644.0" r="7" fill="#A8834F"/>
+<text x="1140" y="637.0" font-size="34" font-weight="700" fill="#2B2926">인공눈물도 알릴지</text>
+<text x="1140" y="685.0" font-size="28" fill="#5A554F">기본은 끔.</text>
+<path d="M 41 824 V 804 H 61 M 1019 804 H 1039 V 824 M 41 880 V 900 H 61 M 1019 900 H 1039 V 880" fill="none" stroke="#A8834F" stroke-width="4" stroke-linecap="round"/>
+<path d="M 1043 852.0 H 1080" stroke="#A8834F" stroke-width="2" stroke-dasharray="5 7" opacity=".55"/>
+<path d="M 1080 852.0 H 1110.0 V 833.0 H 1126" fill="none" stroke="#A8834F" stroke-width="3"/>
+<circle cx="1080" cy="852.0" r="7" fill="#A8834F"/>
+<text x="1140" y="845.0" font-size="34" font-weight="700" fill="#2B2926">되돌리기 유예</text>
+<text x="1140" y="893.0" font-size="28" fill="#5A554F">지나면 체크가 그대로 굳어요.</text>
+</svg></section><section class="moment"><h2>약 목록</h2><svg class="fig" viewBox="0 0 1960 1894" xmlns="http://www.w3.org/2000/svg" xmlns:xlink="http://www.w3.org/1999/xlink" role="img">
+<clipPath id="cp_meds"><rect x="0" y="0" width="1080" height="1894" rx="36"/></clipPath>
+<rect x="0" y="0" width="1080" height="1894" rx="36" fill="#FDFDFB"/><image href="img/meds.png" xlink:href="img/meds.png" x="0" y="-26" width="1080" height="1920" clip-path="url(#cp_meds)"/>
+<rect x="0" y="0" width="1080" height="40" fill="#FDFDFB" clip-path="url(#cp_meds)"/>
+<rect x="2" y="2" width="1076" height="1890" rx="34" fill="none" stroke="#E4DFD5" stroke-width="4"/>
+<path d="M 52 283 V 263 H 72 M 1008 263 H 1028 V 283 M 52 316 V 336 H 72 M 1008 336 H 1028 V 316" fill="none" stroke="#A8834F" stroke-width="4" stroke-linecap="round"/>
+<path d="M 1032 299.5 H 1080" stroke="#A8834F" stroke-width="2" stroke-dasharray="5 7" opacity=".55"/>
+<path d="M 1080 299.5 H 1110.0 V 280.5 H 1126" fill="none" stroke="#A8834F" stroke-width="3"/>
+<circle cx="1080" cy="299.5" r="7" fill="#A8834F"/>
+<text x="1140" y="292.5" font-size="34" font-weight="700" fill="#2B2926">순서가 곧 위젯</text>
+<text x="1140" y="340.5" font-size="28" fill="#5A554F">위아래 화살표로 옮겨요.</text>
+<path d="M 178 1081 V 1061 H 198 M 717 1061 H 737 V 1081 M 178 1110 V 1130 H 198 M 717 1130 H 737 V 1110" fill="none" stroke="#A8834F" stroke-width="4" stroke-linecap="round"/>
+<path d="M 741 1095.5 H 1080" stroke="#A8834F" stroke-width="2" stroke-dasharray="5 7" opacity=".55"/>
+<path d="M 1080 1095.5 H 1110.0 V 1076.5 H 1126" fill="none" stroke="#A8834F" stroke-width="3"/>
+<circle cx="1080" cy="1095.5" r="7" fill="#A8834F"/>
+<text x="1140" y="1088.5" font-size="34" font-weight="700" fill="#2B2926">영양제 표시</text>
+<text x="1140" y="1136.5" font-size="28" fill="#5A554F">같은 구간의 영양제와 위젯에서 한 타일로 뭉쳐요.</text>
+<path d="M 41 1674 V 1654 H 61 M 1019 1654 H 1039 V 1674 M 41 1784 V 1804 H 61 M 1019 1804 H 1039 V 1784" fill="none" stroke="#A8834F" stroke-width="4" stroke-linecap="round"/>
+<path d="M 1043 1729.0 H 1080" stroke="#A8834F" stroke-width="2" stroke-dasharray="5 7" opacity=".55"/>
+<path d="M 1080 1729.0 H 1110.0 V 1710.0 H 1126" fill="none" stroke="#A8834F" stroke-width="3"/>
+<circle cx="1080" cy="1729.0" r="7" fill="#A8834F"/>
+<text x="1140" y="1722.0" font-size="34" font-weight="700" fill="#2B2926">새 약</text>
+<text x="1140" y="1770.0" font-size="28" fill="#5A554F">이름 · 짧은 이름 · 모양 · 색 · 언제 먹나.</text>
+</svg></section><section class="moment"><h2>약 하나 고치기</h2><svg class="fig" viewBox="0 0 1960 1252" xmlns="http://www.w3.org/2000/svg" xmlns:xlink="http://www.w3.org/1999/xlink" role="img">
+<clipPath id="cp_edit"><rect x="0" y="0" width="1080" height="1252" rx="36"/></clipPath>
+<rect x="0" y="0" width="1080" height="1252" rx="36" fill="#FDFDFB"/><image href="img/edit.png" xlink:href="img/edit.png" x="0" y="-26" width="1080" height="1920" clip-path="url(#cp_edit)"/>
+<rect x="0" y="0" width="1080" height="40" fill="#FDFDFB" clip-path="url(#cp_edit)"/>
+<rect x="2" y="2" width="1076" height="1248" rx="34" fill="none" stroke="#E4DFD5" stroke-width="4"/>
+<path d="M 255 339 V 319 H 275 M 1019 319 H 1039 V 339 M 255 373 V 393 H 275 M 1019 393 H 1039 V 373" fill="none" stroke="#A8834F" stroke-width="4" stroke-linecap="round"/>
+<path d="M 1043 356.0 H 1080" stroke="#A8834F" stroke-width="2" stroke-dasharray="5 7" opacity=".55"/>
+<path d="M 1080 356.0 H 1110.0 V 337.0 H 1126" fill="none" stroke="#A8834F" stroke-width="3"/>
+<circle cx="1080" cy="356.0" r="7" fill="#A8834F"/>
+<text x="1140" y="349.0" font-size="34" font-weight="700" fill="#2B2926">위젯 타일 미리보기</text>
+<text x="1140" y="397.0" font-size="28" fill="#5A554F">모양과 색을 바꾸면 바로 따라와요.</text>
+<path d="M 41 810 V 790 H 61 M 1019 790 H 1039 V 810 M 41 844 V 864 H 61 M 1019 864 H 1039 V 844" fill="none" stroke="#A8834F" stroke-width="4" stroke-linecap="round"/>
+<path d="M 1043 827.0 H 1080" stroke="#A8834F" stroke-width="2" stroke-dasharray="5 7" opacity=".55"/>
+<path d="M 1080 827.0 H 1110.0 V 808.0 H 1126" fill="none" stroke="#A8834F" stroke-width="3"/>
+<circle cx="1080" cy="827.0" r="7" fill="#A8834F"/>
+<text x="1140" y="820.0" font-size="34" font-weight="700" fill="#2B2926">짧은 이름</text>
+<text x="1140" y="868.0" font-size="28" fill="#5A554F">일곱 글자까지는 자동으로 줄어 다 들어가요.</text>
+<path d="M 41 1070 V 1050 H 61 M 1019 1050 H 1039 V 1070 M 41 1104 V 1124 H 61 M 1019 1124 H 1039 V 1104" fill="none" stroke="#A8834F" stroke-width="4" stroke-linecap="round"/>
+<path d="M 1043 1087.0 H 1080" stroke="#A8834F" stroke-width="2" stroke-dasharray="5 7" opacity=".55"/>
+<path d="M 1080 1087.0 H 1110.0 V 1068.0 H 1126" fill="none" stroke="#A8834F" stroke-width="3"/>
+<circle cx="1080" cy="1087.0" r="7" fill="#A8834F"/>
+<text x="1140" y="1080.0" font-size="34" font-weight="700" fill="#2B2926">모양과 색을 골라</text>
+<text x="1140" y="1128.0" font-size="28" fill="#5A554F">아이콘은 그리지 않아요. «하양» 은 낮 위젯에서 연회색으로.</text>
 </svg></section><p class="cap wide">소리 · 진동 · 잠금화면 표시는 안드로이드가 맡아요 — 설정의 «시스템 알림 설정 열기». 기록은 설정 맨 아래에서 CSV 로 내보내요. 갤럭시 S25+ · One UI 8 전용이고 스토어에 안 올려요. 코드는 <code>newhigen-labs/pillbox</code>.</p>
 </div></body></html>
